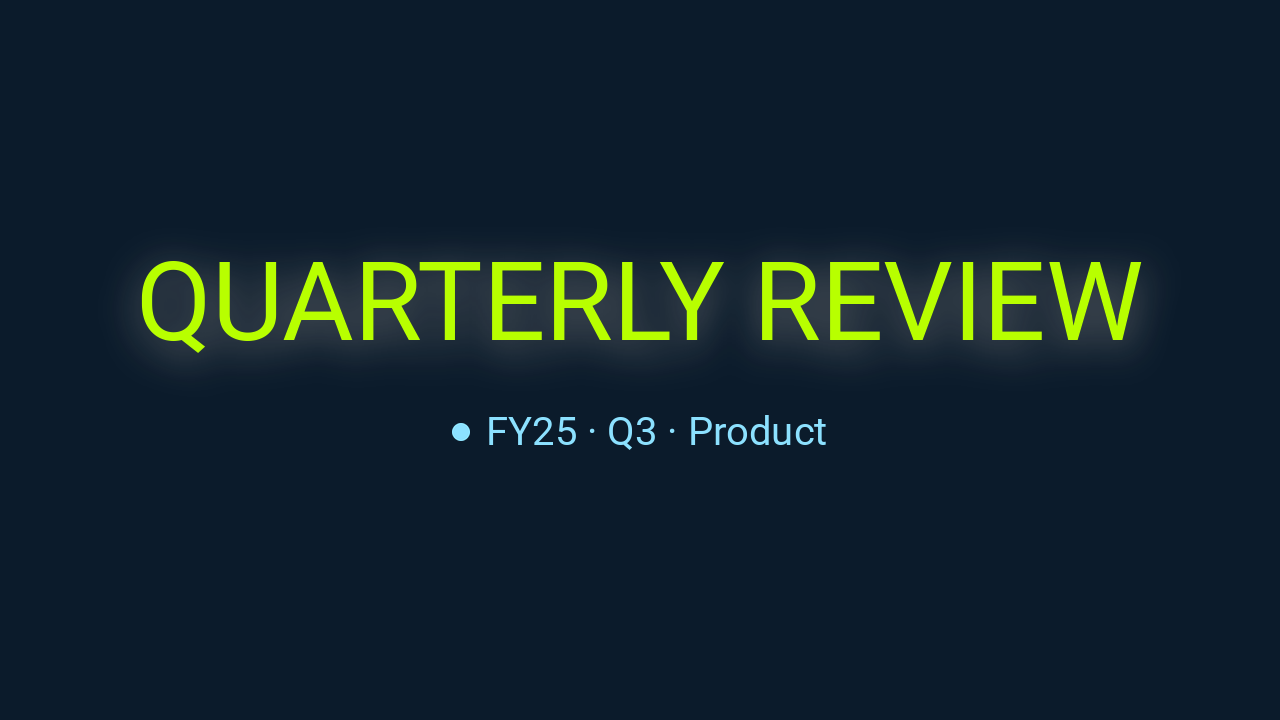
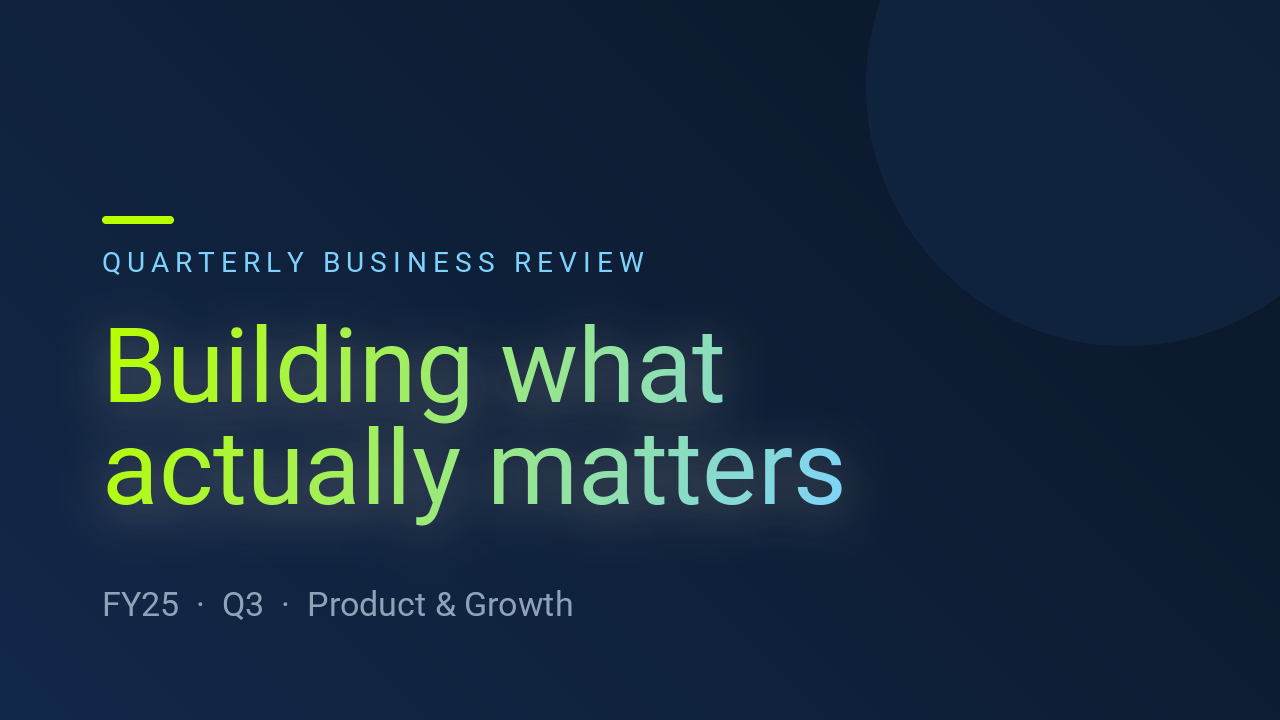
Polish the slide-effects example deck
Redesign the example into a presentation-ready 4-slide deck (title, agenda,
hero metric, closing) with a cohesive palette, gradient backgrounds, and
gradient-filled headlines. The agenda uses numbered group rows instead of tight
text-background highlights so it stays cleanly aligned in PowerPoint, and the
hero metric carries a list of animations (box in, hold, fade out).

Claude-Session: https://claude.ai/code/session_01TpdN8ZGDXbofsc2mQRueCa

Changed region(s): [[0.0, 0.275, 0.6562, 1.0], [0.5938, 0.3667, 0.9062, 0.4889]]

diff --git a/examples/slide_effects_deck.py b/examples/slide_effects_deck.py
@@ -1,24 +1,25 @@
 """
-Slide effects example: a multi-slide PowerPoint deck with transitions and
-per-layer entrance/exit animations.
+Slide effects showcase: a polished, presentation-ready PowerPoint deck with
+transitions and per-layer entrance/exit animations.
 
 Demonstrates:
-- A `Deck` with a default slide transition plus per-slide overrides
-- Typed effect objects (`Fade`, `Wipe`, `Box`, `Wheel`, ...), each carrying only
-  the options it supports
-- A list of animations on one layer, played in order (enter, then exit)
-- A `group` animation that drives all of its children as a single effect
-- `entrance` and `exit` animations with click / after-previous sequencing
+- A `Deck` with a default slide `Transition` plus per-slide overrides
+- Typed effect objects (`Fade`, `Wipe`, `Box`, `Wheel`), each carrying only the
+  options it supports
+- A list of animations on one layer, played in order (enter, hold, exit)
+- A `group` animation that drives several children as a single effect
+- Gradient backgrounds, gradient-filled headlines, and accent shapes that stay
+  crisp and editable in PowerPoint
 
-Slide effects only affect PPTX output, so this example renders to `.pptx`. Open
-the file in PowerPoint (or Keynote / LibreOffice Impress) and run the slideshow
-to see the transitions and animations play.
+Slide effects only affect PPTX output, so this renders to `.pptx`. Open it in
+PowerPoint (or Keynote / LibreOffice Impress) and start the slideshow to watch
+the transitions and animations play.
 """
 
 import os
 
-from quickthumb import Box, Canvas, Deck, Fade, Transition, Wheel, Wipe
-from quickthumb.models import Background, Shadow
+from quickthumb import Box, Canvas, Deck, Fade, LinearGradient, Transition, Wheel, Wipe
+from quickthumb.models import Shadow
 
 FILE_DIR = os.path.dirname(__file__)
 ASSETS_DIR = os.path.join(FILE_DIR, "..", "assets")
@@ -27,104 +28,177 @@ OUTPUT_PATH = os.path.join(FILE_DIR, "slide_effects_deck.pptx")
 os.environ["QUICKTHUMB_FONT_DIR"] = os.path.join(ASSETS_DIR, "fonts")
 os.environ["QUICKTHUMB_DEFAULT_FONT"] = "Roboto"
 
-INK = "#0B1B2B"
-ACCENT = "#B8FF00"
-SKY = "#8CE1FF"
+# A small, cohesive palette keeps the whole deck on-brand.
+INK = "#0A1626"
+LIME = "#B8FF00"
+SKY = "#7DD3FC"
+WHITE = "#F8FAFC"
+MUTED = "#8FA3B8"
 
-# Slide 1 — title. The headline fades in on the first click; the kicker pill and
-# label form a group that wheels in together as one effect on the next click.
+NAVY_WASH = LinearGradient(angle=135, stops=[("#0A1626", 0.0), ("#13294A", 1.0)])
+GREEN_WASH = LinearGradient(angle=135, stops=[("#07140C", 0.0), ("#0F2A1B", 1.0)])
+HEADLINE_FILL = LinearGradient(angle=20, stops=[(LIME, 0.0), (SKY, 1.0)])
+
+SOFT_SHADOW = Shadow(offset_x=0, offset_y=10, color="#00000066", blur_radius=22)
+
+
+def accent_bar(canvas: Canvas, x: str, y: str, *, align=None, animation=None) -> Canvas:
+    """A short lime rule used as a kicker accent above headings."""
+    return canvas.shape(
+        shape="rectangle",
+        position=(x, y),
+        width=72,
+        height=8,
+        color=LIME,
+        border_radius=4,
+        align=align,
+        animation=animation,
+    )
+
+
+# Slide 1 — title. The accent bar wipes in, the gradient headline fades up, then
+# the kicker + subtitle arrive together.
 cover = (
     Canvas()
-    .background(color=INK)
+    .background(gradient=NAVY_WASH)
+    # a large, faint ring in the corner adds depth without stealing focus
+    .shape(shape="ellipse", position=("88%", "12%"), width=520, height=520,
+           color="#163358", opacity=0.35, align=("center", "middle"))
+)
+cover = accent_bar(cover, "8%", "30%", animation=Wipe(direction="left", duration=0.4))
+cover = (
+    cover
     .text(
-        content="QUARTERLY REVIEW",
-        size=110,
-        color=ACCENT,
-        weight=900,
-        position=("50%", "42%"),
-        align="center",
-        effects=[Shadow(offset_x=0, offset_y=8, color="#00000088", blur_radius=18)],
-        animation=Fade(duration=0.6),
+        content="QUARTERLY BUSINESS REVIEW",
+        size=28,
+        color=SKY,
+        weight=700,
+        letter_spacing=6,
+        position=("8%", "35%"),
+        animation=Fade(trigger="after_previous"),
     )
-    .group(
-        children=[
-            {"type": "shape", "shape": "pill", "width": 18, "height": 18, "color": SKY},
-            {"type": "text", "content": "FY25 · Q3 · Product", "size": 40, "color": SKY},
-        ],
-        direction="row",
-        gap=16,
-        position=("50%", "60%"),
-        align=("center", "middle"),
-        item_align="center",
-        animation=Wheel(spokes=4, trigger="after_previous"),
+    .text(
+        content="Building what\nactually matters",
+        size=104,
+        fill=HEADLINE_FILL,
+        weight=900,
+        line_height=1.02,
+        position=("8%", "45%"),
+        effects=[SOFT_SHADOW],
+        animation=Fade(duration=0.6, trigger="after_previous"),
+    )
+    .text(
+        content="FY25  ·  Q3  ·  Product & Growth",
+        size=34,
+        color=MUTED,
+        position=("8%", "82%"),
+        animation=Fade(trigger="after_previous"),
     )
 )
 
-# Slide 2 — agenda. Each row wipes in from the left, one click at a time, so the
-# list builds up point by point.
-agenda_rows = ["Revenue & growth", "What shipped", "What we learned", "Next quarter"]
-agenda = Canvas().background(color=INK).text(
+# Slide 2 — agenda. Each row is a group (big numeral + label) that wipes in on
+# its own click, building the list up one point at a time. No tight text
+# backgrounds, so it stays perfectly aligned in PowerPoint.
+agenda_items = [
+    ("01", "Revenue & growth"),
+    ("02", "What we shipped"),
+    ("03", "What we learned"),
+    ("04", "Where we go next"),
+]
+agenda = Canvas().background(gradient=NAVY_WASH)
+agenda = accent_bar(agenda, "8%", "15%")
+agenda = agenda.text(
     content="Agenda",
     size=72,
-    color="#FFFFFF",
+    color=WHITE,
     weight=900,
-    position=("8%", "16%"),
+    position=("8%", "19%"),
     animation=Fade(),
 )
-for index, label in enumerate(agenda_rows):
-    agenda = agenda.text(
-        content=f"{index + 1}.  {label}",
-        size=48,
-        color=SKY if index % 2 == 0 else "#FFFFFF",
-        position=("10%", f"{38 + index * 13}%"),
-        effects=[Background(color="#13314A", padding=(10, 20), border_radius=10)],
+for index, (number, label) in enumerate(agenda_items):
+    agenda = agenda.group(
+        children=[
+            {"type": "text", "content": number, "size": 56, "color": LIME, "weight": 900},
+            {"type": "text", "content": label, "size": 52, "color": WHITE, "weight": 500},
+        ],
+        direction="row",
+        gap=40,
+        position=("9%", f"{40 + index * 14}%"),
+        align=("left", "middle"),
+        item_align="center",
         animation=Wipe(direction="left", duration=0.4),
     )
 
-# Slide 3 — a single metric that boxes in, holds, then fades out to clear the
-# stage. Passing a list of animations plays them in order on the same layer.
+# Slide 3 — the hero metric. The big gradient number boxes in and holds; the
+# supporting stats wheel in together a beat later.
 metric = (
     Canvas()
-    .background(color="#101A0B")
+    .background(gradient=GREEN_WASH)
     .text(
-        content="+38%",
-        size=240,
-        color=ACCENT,
-        weight=900,
-        position=("50%", "44%"),
+        content="Active teams, year over year",
+        size=30,
+        color=SKY,
+        weight=700,
+        letter_spacing=4,
+        position=("50%", "22%"),
         align="center",
-        animation=[
-            Box(direction="in", duration=0.5),
-            Fade(animate="exit", trigger="after_previous", delay=1.0),
-        ],
+        animation=Fade(),
     )
     .text(
-        content="year-over-year active teams",
-        size=44,
-        color="#D7E8C4",
-        position=("50%", "70%"),
+        content="+38%",
+        size=300,
+        fill=LinearGradient(angle=20, stops=[(LIME, 0.0), ("#5EEAD4", 1.0)]),
+        weight=900,
+        position=("50%", "50%"),
         align="center",
-        animation=Fade(trigger="with_previous"),
+        effects=[SOFT_SHADOW],
+        # a list plays in order: box in, let it land, then fade out to move on
+        animation=[
+            Box(direction="in", duration=0.5, trigger="after_previous"),
+            Fade(animate="exit", trigger="after_previous", delay=1.5),
+        ],
+    )
+    .group(
+        children=[
+            {"type": "text", "content": "2.4M", "size": 60, "color": SKY, "weight": 900},
+            {"type": "text", "content": "monthly users", "size": 32, "color": MUTED},
+            {"type": "text", "content": "·", "size": 40, "color": "#33506E"},
+            {"type": "text", "content": "+120", "size": 60, "color": SKY, "weight": 900},
+            {"type": "text", "content": "new enterprises", "size": 32, "color": MUTED},
+        ],
+        direction="row",
+        gap=22,
+        position=("50%", "82%"),
+        align=("center", "middle"),
+        item_align="center",
+        animation=Wheel(spokes=3, trigger="after_previous"),
     )
 )
 
-# Slide 4 — closing card, no animations, just a clean outro.
+# Slide 4 — closing. Clean and confident, no animations — just a strong outro.
 closing = (
     Canvas()
-    .background(color=INK)
+    .background(gradient=NAVY_WASH)
+    .shape(shape="ellipse", position=("12%", "88%"), width=520, height=520,
+           color="#163358", opacity=0.35, align=("center", "middle"))
+)
+closing = accent_bar(closing, "50%", "38%", align="center")
+closing = (
+    closing
     .text(
-        content="Questions?",
+        content="Let's build it.",
         size=120,
-        color="#FFFFFF",
+        fill=HEADLINE_FILL,
         weight=900,
-        position=("50%", "45%"),
+        position=("50%", "50%"),
         align="center",
+        effects=[SOFT_SHADOW],
     )
     .text(
-        content="thanks for watching",
-        size=40,
-        color=SKY,
-        position=("50%", "62%"),
+        content="Questions, ideas, and bold bets welcome.",
+        size=36,
+        color=MUTED,
+        position=("50%", "66%"),
         align="center",
     )
 )
@@ -135,7 +209,7 @@ deck = (
     .transition("fade", duration=0.4)
     .slide(cover)
     .slide(agenda)
-    # ...but individual slides can override that default.
+    # ...but individual slides can override that default with their own effect.
     .slide(metric, transition=Transition(effect="zoom", direction="in", duration=0.6))
     .slide(closing, transition="push")
 )

diff --git a/examples/README.md b/examples/README.md
@@ -155,13 +155,14 @@ Use it when you want a brandable announcement-card template whose layout survive
 
 Output: `slide_effects_deck.pptx` (plus `slide_effects_deck.png`, a still preview of the opening slide)
 
-Builds a 4-slide PowerPoint `Deck` that shows off slide effects (PPTX-only):
+Builds a polished 4-slide PowerPoint `Deck` (title, agenda, hero metric, closing) that shows off slide effects (PPTX-only):
 
 - A deck-wide default slide `Transition` with per-slide overrides (`Deck.transition(...)` and `Deck.slide(..., transition=...)`)
 - Typed animation effect objects — `Fade`, `Wipe`, `Box`, `Wheel` — each exposing only the options it supports
-- A list of animations on one layer, played in order (a metric boxes in, then fades out)
-- A `group` animation that drives a chip + label as a single effect
+- A list of animations on one layer, played in order (the hero metric boxes in, holds, then fades out)
+- `group` animations that drive a numbered agenda row or a stat block as a single effect
 - `entrance` and `exit` animations sequenced by `on_click` / `with_previous` / `after_previous`
+- Gradient backgrounds and gradient-filled headlines that stay crisp and editable in PowerPoint
 
 Open the `.pptx` in PowerPoint (or Keynote / LibreOffice Impress) and start the slideshow to see the transitions and animations play; the `.png` is just a static render of the first slide, since stills can't show motion.
 
